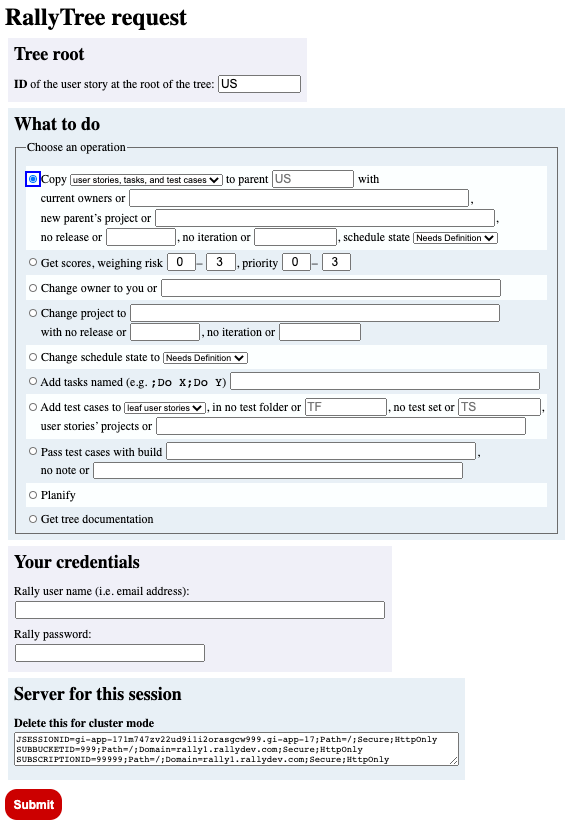
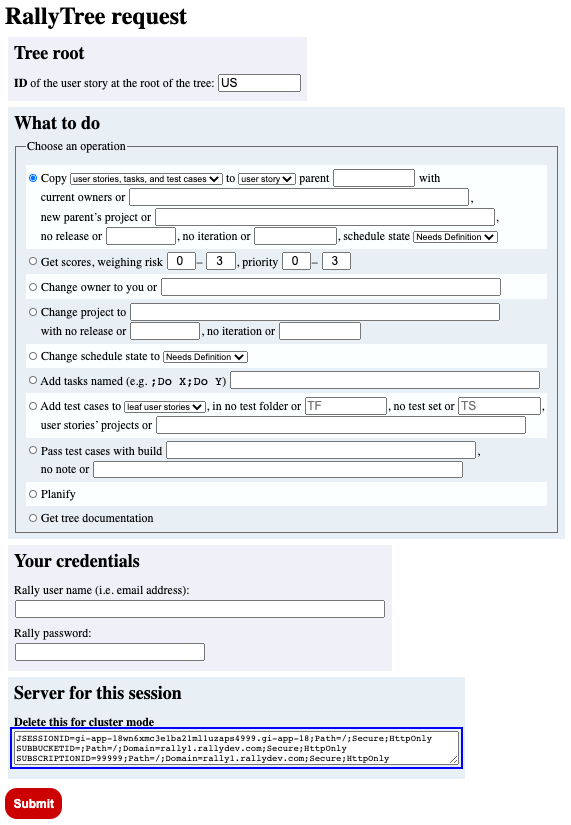
Debugged and updated readme.

diff --git a/index.js b/index.js
@@ -233,8 +233,7 @@ const getRef = (type, formattedID, context) => {
             return resultArray[0]._ref;
           }
           else {
-            err('No such ID', `getting reference to ${type} for ${context}`);
-            return '';
+            return err('No such ID', `getting reference to ${type} for ${context}`);
           }
         },
         error => err(error, `getting reference to ${type} for ${context}`)
@@ -413,7 +412,7 @@ const getAndCopyTasksOrCases = (itemType, collectionType, data, copyRef) => {
   );
 };
 // Recursively copies a tree or subtrees.
-const copyTree = (storyRefs, parentRef) => {
+const copyTree = (storyRefs, parentType, parentRef) => {
   if (storyRefs.length && ! isError) {
     // Identify and shorten the reference to the first user story.
     const firstRef = shorten('userstory', 'hierarchicalrequirement', storyRefs[0]);
@@ -441,9 +440,14 @@ const copyTree = (storyRefs, parentRef) => {
               Description: data.description,
               Owner: copyOwnerRef || data.owner,
               DragAndDropRank: data.dragAndDropRank,
-              Parent: parentRef,
               Project: copyProjectRef
             };
+            if (parentType === 'story') {
+              properties.Parent = parentRef;
+            }
+            else {
+              properties.PortfolioItem = parentRef;
+            }
             if (copyReleaseRef) {
               properties.Release = copyReleaseRef;
             }
@@ -478,12 +482,12 @@ const copyTree = (storyRefs, parentRef) => {
                         // When the data arrive:
                         children => {
                           // Process the child user stories.
-                          return copyTree(children.map(child => child.ref), copyRef)
+                          return copyTree(children.map(child => child.ref), 'story', copyRef)
                           .then(
                             // When they have been processed:
                             () => {
                               // Process the remaining user stories.
-                              return copyTree(storyRefs.slice(1), parentRef);
+                              return copyTree(storyRefs.slice(1), 'story', parentRef);
                             },
                             error => err(error,'processing child user stories')
                           );
@@ -493,7 +497,7 @@ const copyTree = (storyRefs, parentRef) => {
                     }
                     else {
                       // Process the remaining user stories.
-                      return copyTree(storyRefs.slice(1), parentRef);
+                      return copyTree(storyRefs.slice(1), 'story', parentRef);
                     }
                   };
                   // FUNCTION DEFINITION END.
@@ -517,7 +521,7 @@ const copyTree = (storyRefs, parentRef) => {
                             /*
                               It cannot have child user stories. Process the remaining user stories.
                             */
-                              return copyTree(storyRefs.slice(1), parentRef);
+                              return copyTree(storyRefs.slice(1), 'story', parentRef);
                             },
                             error => err(error, 'copying tasks')
                           );
@@ -550,7 +554,7 @@ const copyTree = (storyRefs, parentRef) => {
                         // When the tasks have been copied:
                         () => {
                           // It cannot have child user stories. Process the remaining user stories.
-                          return copyTree(storyRefs.slice(1), parentRef);
+                          return copyTree(storyRefs.slice(1), 'story', parentRef);
                         },
                         error => err(error, 'copying tasks')
                       );
@@ -2367,7 +2371,11 @@ const requestHandler = (request, res) => {
       */
       else if (requestURL === '/copytally' && idle) {
         streamInit();
-        copyTree([rootRef], copyParentRef);
+        copyTree(
+          [rootRef],
+          copyParentType === 'hierarchicalrequirement' ? 'story' : 'feature',
+          copyParentRef
+        );
       }
       else if (requestURL === '/scoretally' && idle) {
         streamInit();
@@ -2490,89 +2498,90 @@ const requestHandler = (request, res) => {
             .then(
               // When it arrives:
               ref => {
-                if (ref) {
-                  console.log(`Copy parent ref is ${ref}`);
-                  // Set its global variable. 
-                  copyParentRef = shorten(copyParentReadType, 'hierarchicalrequirement', ref);
-                  if (! isError) {
-                    // Get data on the copy parent.
-                    getItemData(
-                      copyParentRef,
-                      ['Project'],
-                      [copyParentType === 'hierarchicalrequirement' ? 'Tasks' : '']
-                    )
-                    .then(
-                      // When the data arrive:
-                      data => {
-                        // If the copy parent has tasks:
-                        if (copyParentType === 'hierarchicalrequirement' && data.tasks.count) {
-                          // Reject the request.
-                          err('Attempt to copy to a user story with tasks', 'copying tree');
-                        }
-                        // Otherwise, i.e. if the copy parent has no tasks:
-                        else {
-                          // Get a reference to the specified project, if any.
-                          getGlobalNameRef(bodyObject.copyProject, 'project', 'Name')
-                          .then(
-                            // When it or blank arrives:
-                            ref => {
-                              if (! isError) {
-                                // Set its global variable.
-                                copyProjectRef = ref || data.project;
-                                // Get a reference to the specified owner, if any.
-                                getGlobalNameRef(bodyObject.copyOwner, 'user', 'UserName')
-                                .then(
-                                  // When it or blank arrives:
-                                  ref => {
-                                    if (! isError) {
-                                      // Set its global variable.
-                                      copyOwnerRef = ref;
-                                      // Get a reference to the specified release, if any.
-                                      getProjectNameRef(
-                                        copyProjectRef, 'release', bodyObject.copyRelease, 'copy'
-                                      )
-                                      .then(
-                                        // When it or blank arrives:
-                                        ref => {
-                                          if (! isError) {
-                                            // Set its global variable.
-                                            copyReleaseRef = ref;
-                                            // Get a reference to the specified iteration, if any.
-                                            getProjectNameRef(
-                                              copyProjectRef, 'iteration', bodyObject.copyIteration, 'copy'
-                                            )
-                                            .then(
-                                              // When it or blank arrives:
-                                              ref => {
-                                                if (! isError) {
-                                                  // Set its global variable.
-                                                  copyIterationRef = ref;
-                                                  // Copy the tree.
-                                                  serveCopyReport();
-                                                }
-                                              },
-                                              error => err(error, 'getting reference to iteration')
-                                            );
-                                          }
-                                        },
-                                        error => err(error, 'getting reference to release')
-                                      );
-                                    }
-                                  },
-                                  error => err(error, 'getting reference to owner')
-                                );
-                              }
-                            },
-                            error => err(error, 'getting reference to project')
-                          );
-                        }
-                      },
-                      error => err(error, 'getting data on copy parent')
-                    );
+                if (! isError) {
+                  if (ref) {
+                    // Set its global variable. 
+                    copyParentRef = shorten(copyParentReadType, copyParentType, ref);
+                    if (! isError) {
+                      // Get data on the copy parent.
+                      getItemData(
+                        copyParentRef,
+                        ['Project'],
+                        copyParentType === 'hierarchicalrequirement' ? ['Tasks'] : []
+                      )
+                      .then(
+                        // When the data arrive:
+                        data => {
+                          // If the copy parent has tasks:
+                          if (copyParentType === 'hierarchicalrequirement' && data.tasks.count) {
+                            // Reject the request.
+                            err('Attempt to copy to a user story with tasks', 'copying tree');
+                          }
+                          // Otherwise, i.e. if the copy parent has no tasks:
+                          else {
+                            // Get a reference to the specified project, if any.
+                            getGlobalNameRef(bodyObject.copyProject, 'project', 'Name')
+                            .then(
+                              // When it or blank arrives:
+                              ref => {
+                                if (! isError) {
+                                  // Set its global variable.
+                                  copyProjectRef = ref || data.project;
+                                  // Get a reference to the specified owner, if any.
+                                  getGlobalNameRef(bodyObject.copyOwner, 'user', 'UserName')
+                                  .then(
+                                    // When it or blank arrives:
+                                    ref => {
+                                      if (! isError) {
+                                        // Set its global variable.
+                                        copyOwnerRef = ref;
+                                        // Get a reference to the specified release, if any.
+                                        getProjectNameRef(
+                                          copyProjectRef, 'release', bodyObject.copyRelease, 'copy'
+                                        )
+                                        .then(
+                                          // When it or blank arrives:
+                                          ref => {
+                                            if (! isError) {
+                                              // Set its global variable.
+                                              copyReleaseRef = ref;
+                                              // Get a reference to the specified iteration, if any.
+                                              getProjectNameRef(
+                                                copyProjectRef, 'iteration', bodyObject.copyIteration, 'copy'
+                                              )
+                                              .then(
+                                                // When it or blank arrives:
+                                                ref => {
+                                                  if (! isError) {
+                                                    // Set its global variable.
+                                                    copyIterationRef = ref;
+                                                    // Copy the tree.
+                                                    serveCopyReport();
+                                                  }
+                                                },
+                                                error => err(error, 'getting reference to iteration')
+                                              );
+                                            }
+                                          },
+                                          error => err(error, 'getting reference to release')
+                                        );
+                                      }
+                                    },
+                                    error => err(error, 'getting reference to owner')
+                                  );
+                                }
+                              },
+                              error => err(error, 'getting reference to project')
+                            );
+                          }
+                        },
+                        error => err(error, 'getting data on copy parent')
+                      );
+                    }
                   }
-                }
-                else {
-                  err('Missing copy-parent ID', 'submitting request');
+                  else {
+                    err('Missing copy-parent ID', 'submitting request');
+                  }
                 }
               },
               error => err(error, 'getting reference to copy parent')

diff --git a/README.md b/README.md
@@ -12,7 +12,7 @@ RallyTree can perform these operations on a tree:
 
 ## Tree-copy creation
 
-This operation copies a tree. You designate an existing user story as the parent of the root user story of the new tree. That parent must not have any tasks and must not be in the tree that you are copying. Only user stories, optionally with their tasks and/or test cases, are copied, but not defects. In a copy of a user story, task, or test case, the name, rank, and description are copied from the original; you can choose whether the owner is copied from the original or is set to a particular user; you can choose whether the project affiliation is copied from the designated parent of the root of the tree copy or is set to a particular project; and, for a user story, you can specify the release, iteration, and schedule state.
+This operation copies a tree. You designate an existing user story or feature as the parent of the root user story of the new tree. If that parent is a user story, must not have any tasks and must not be in the tree that you are copying. User stories, optionally with their tasks and/or test cases, are copied, but not defects. In a copy of a user story, task, or test case, the name, rank, and description are copied from the original; you can choose whether the owner is copied from the original or is set to a particular user; you can choose whether the project affiliation is copied from the designated parent of the root of the tree copy or is set to a particular project; and you can specify a release, an iteration, and/or a schedule state.
 
 ## Scoring
 
@@ -62,7 +62,7 @@ In Rally, some user stories and all tasks have `release` and `iteration` propert
 
 - Nonleaf user stories do not have these properties.
 - Tasks inherit these properties from the user stories they belong to.
-- Only leaf user stories can have tasks, so tasks always have releases and iterations that they can inherit.
+- Only leaf user stories can have tasks. Since tasks belong only to leaf user stories, tasks always have user stories to inherit releases and iterations from.
 - Releases and iterations are project-specific, not global. Two projects need not have a release or iteration with the same name. Even if they do, those releases or iterations may or may not cover the same time period.
 - If you change the project of a user story that has a non-null release and/or iteration, Rally also changes the release and/or iteration of that user story, in accord with two rules:
 
@@ -82,7 +82,7 @@ In Rally, all user stories have schedule states, and all tasks have states. They
 - Nonleaf user stories have purely derivative schedule states. You cannot set them. Rally sets them on the basis of their child user stories’ schedule states.
 - You can set the states of tasks.
 - User stories with tasks have hybrid schedule states. If you change the state of a task, Rally ensures that the schedule state of the user story that the task belongs to is consistent with the new set of states of its tasks.
-- You can change the schedule state of a leaf user story, but Rally may override your change later if the state of any of its tasks changes or if the user story acquires or loses tasks.
+- You can change the schedule state of a leaf user story, possibly making it inconsistent with the states of its tasks if it has any. But Rally may override your change later if the state of any of its tasks changes or if the user story acquires or loses tasks.
 
 When you execute the schedule-state operation, or when you copy a tree and specify a schedule state for the copy, RallyTree applies your chosen schedule state only to leaf user stories without tasks. However, in the copy operation, every user-story copy is initially a leaf without tasks, and your schedule-state specification is therefore applied to it, even if it will momentarily acquire tasks copied from its original, and when their states are set the user story’s schedule state may be derivatively modified by Rally.
 
